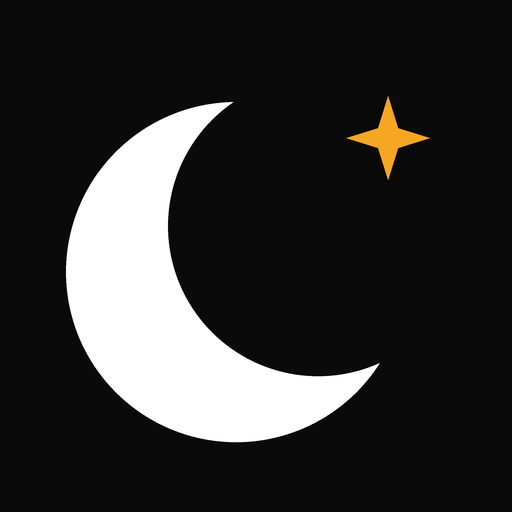
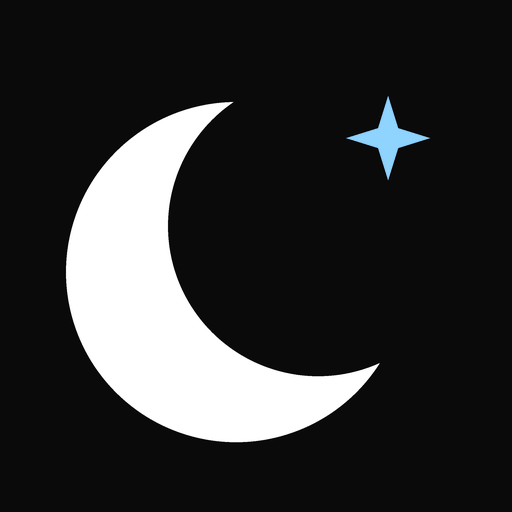
Acento azul claro no app e no ícone

Changed region(s): [[0.6875, 0.1875, 0.8438, 0.3438]]

diff --git a/index.html b/index.html
@@ -21,7 +21,7 @@ img{max-width:100%}
 :root{color-scheme:dark;
 --bg:#0a0a0a;--card:#161616;--card-hi:#1e1e1e;--thumb:#0f0f0f;
 --ink:#ffffff;--ink-soft:#c9c9c9;--ink-muted:#8a8a8a;--line:#2a2a2a;--line-strong:#454545;
---accent:#f5a623;--blue:#1a73ff;--on-accent:#0a0a0a;--red:#ff6a5c;--focus:#ffffff;
+--accent:#8fd3ff;--blue:#1a73ff;--on-accent:#0a0a0a;--red:#ff6a5c;--focus:#ffffff;
 --r-sm:10px;--r-lg:16px;
 --display:Anton,Impact,"Arial Narrow",sans-serif;
 --sans:Sora,Manrope,system-ui,-apple-system,"Segoe UI",sans-serif;

diff --git a/sw.js b/sw.js
@@ -1,4 +1,4 @@
-const CACHE = 'moonshot-v1';
+const CACHE = 'moonshot-v2';
 const PRECACHE = ['./', './index.html', './manifest.webmanifest', './icon-192.png', './icon-512.png', './icon-maskable-512.png', './apple-touch-icon.png', './icon.svg'];
 const FONT_HOSTS = ['fonts.googleapis.com', 'fonts.gstatic.com'];
 
